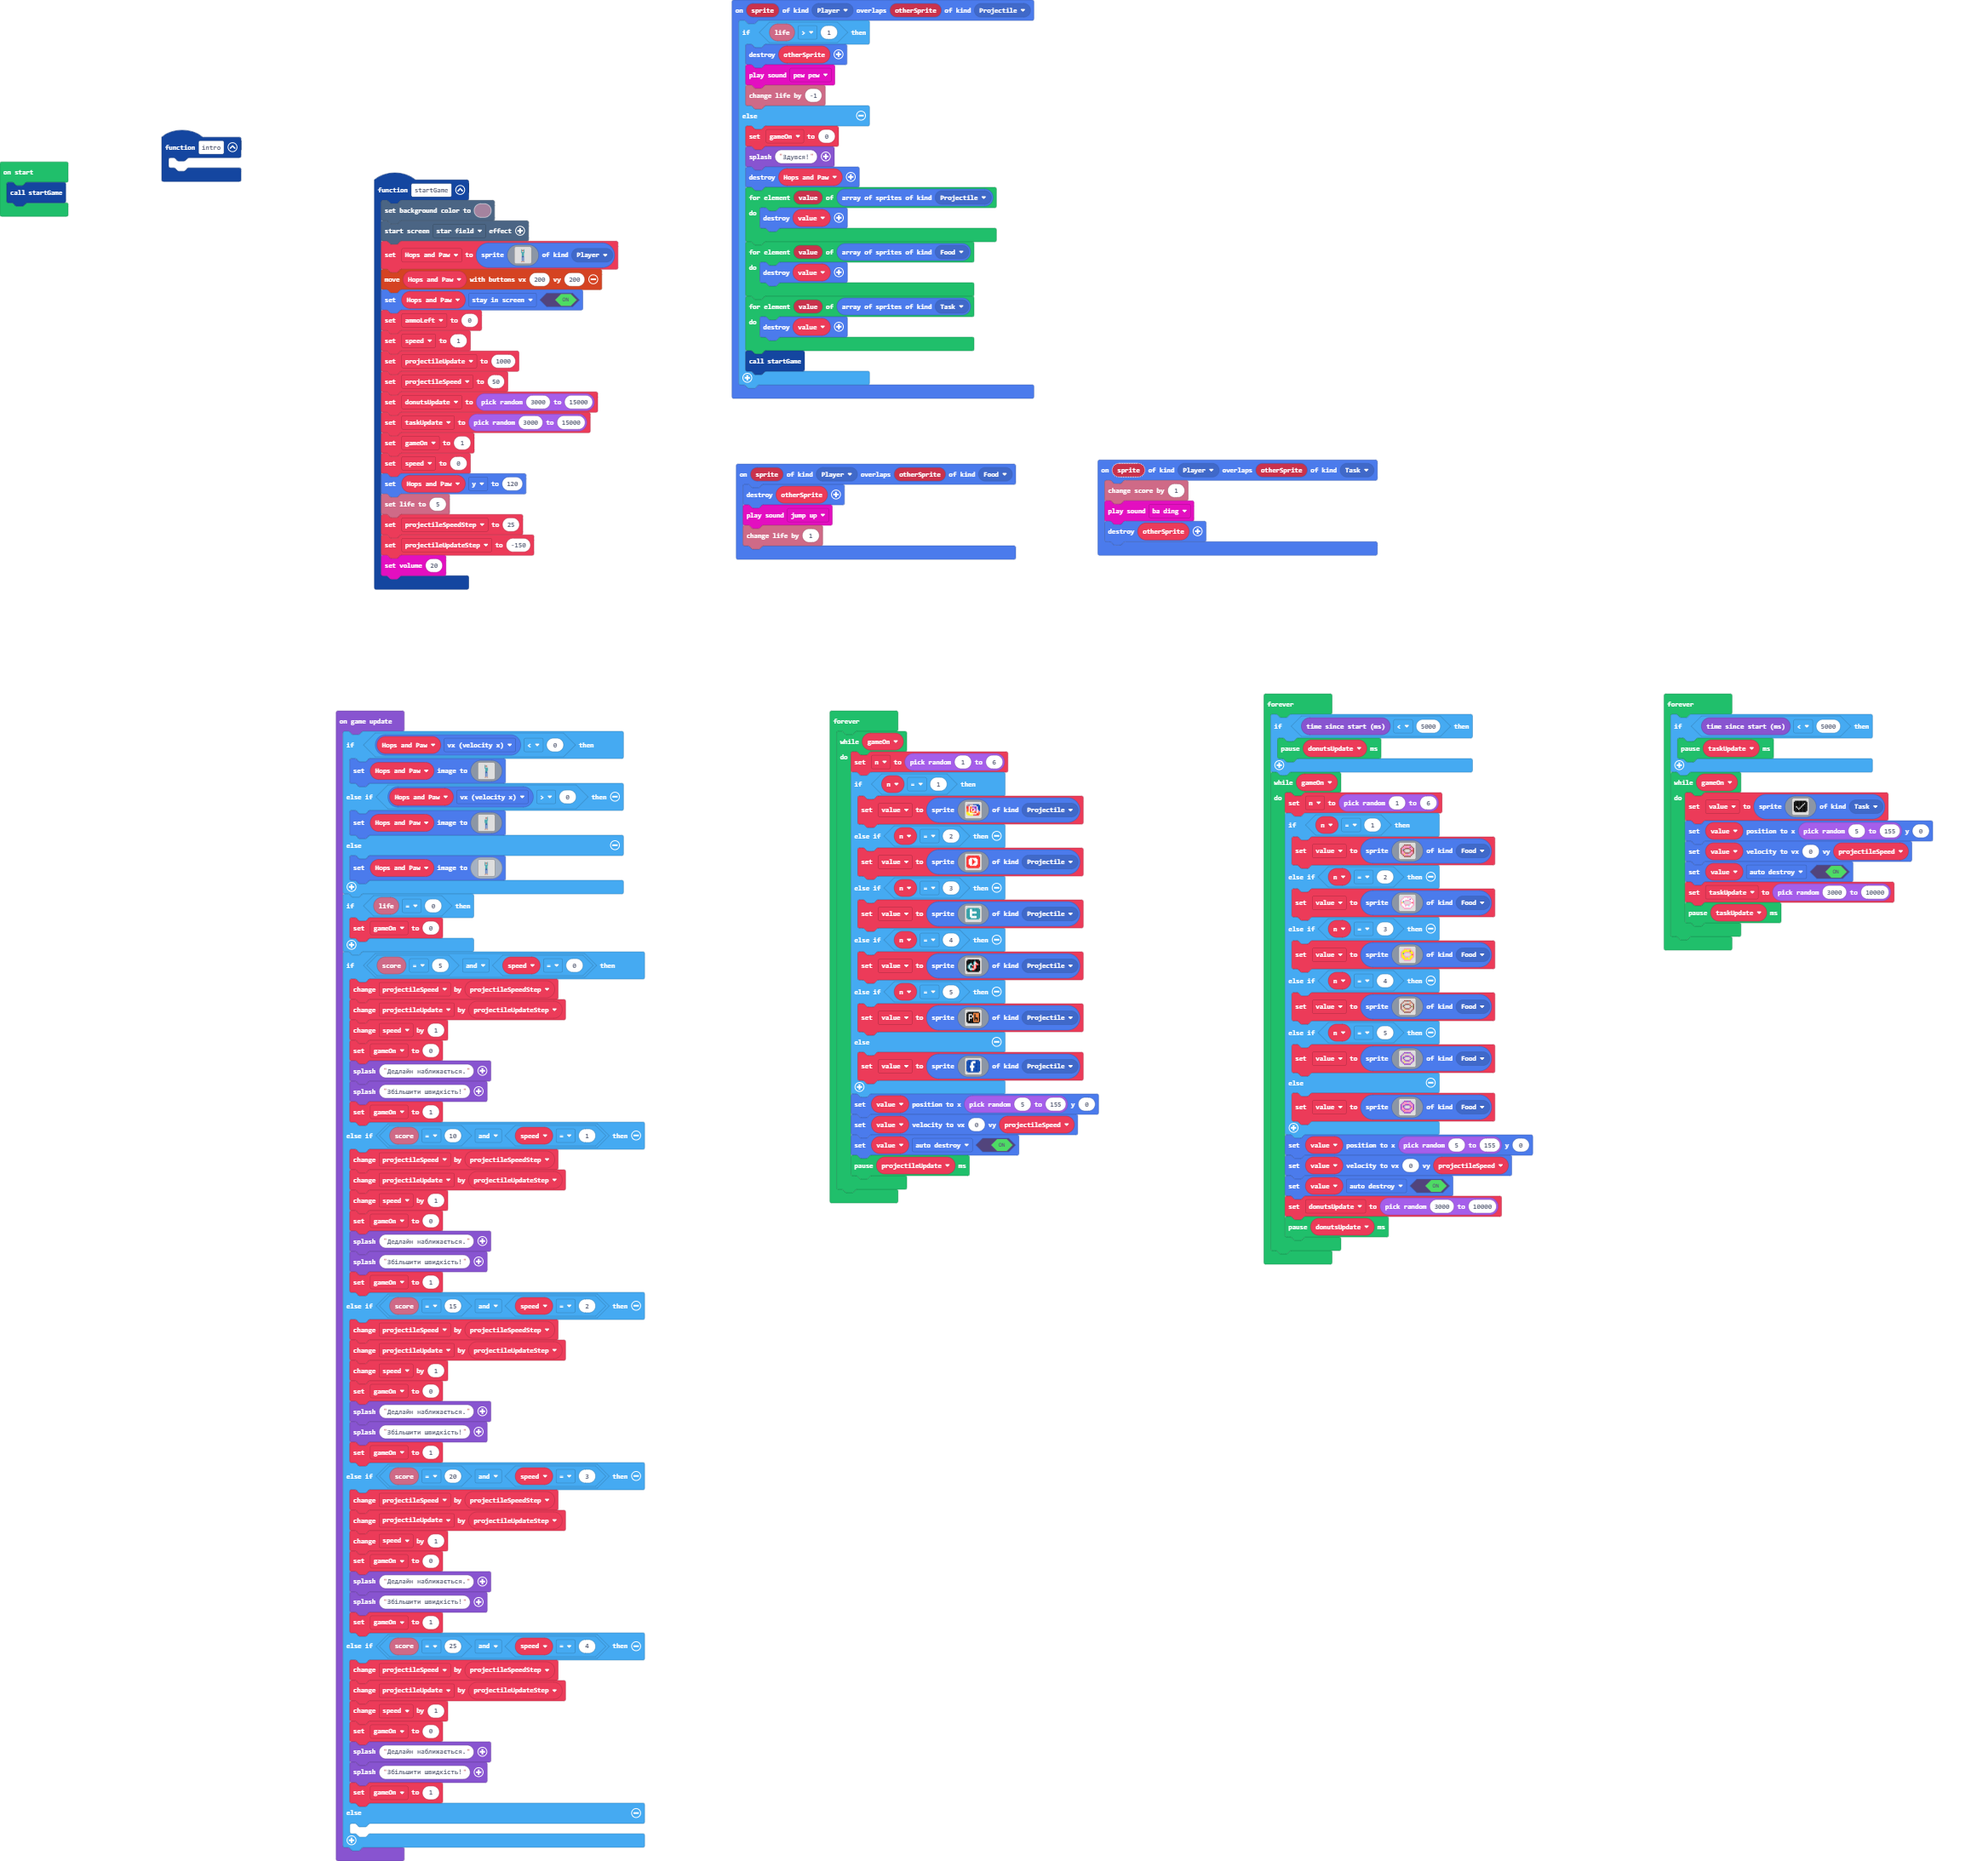
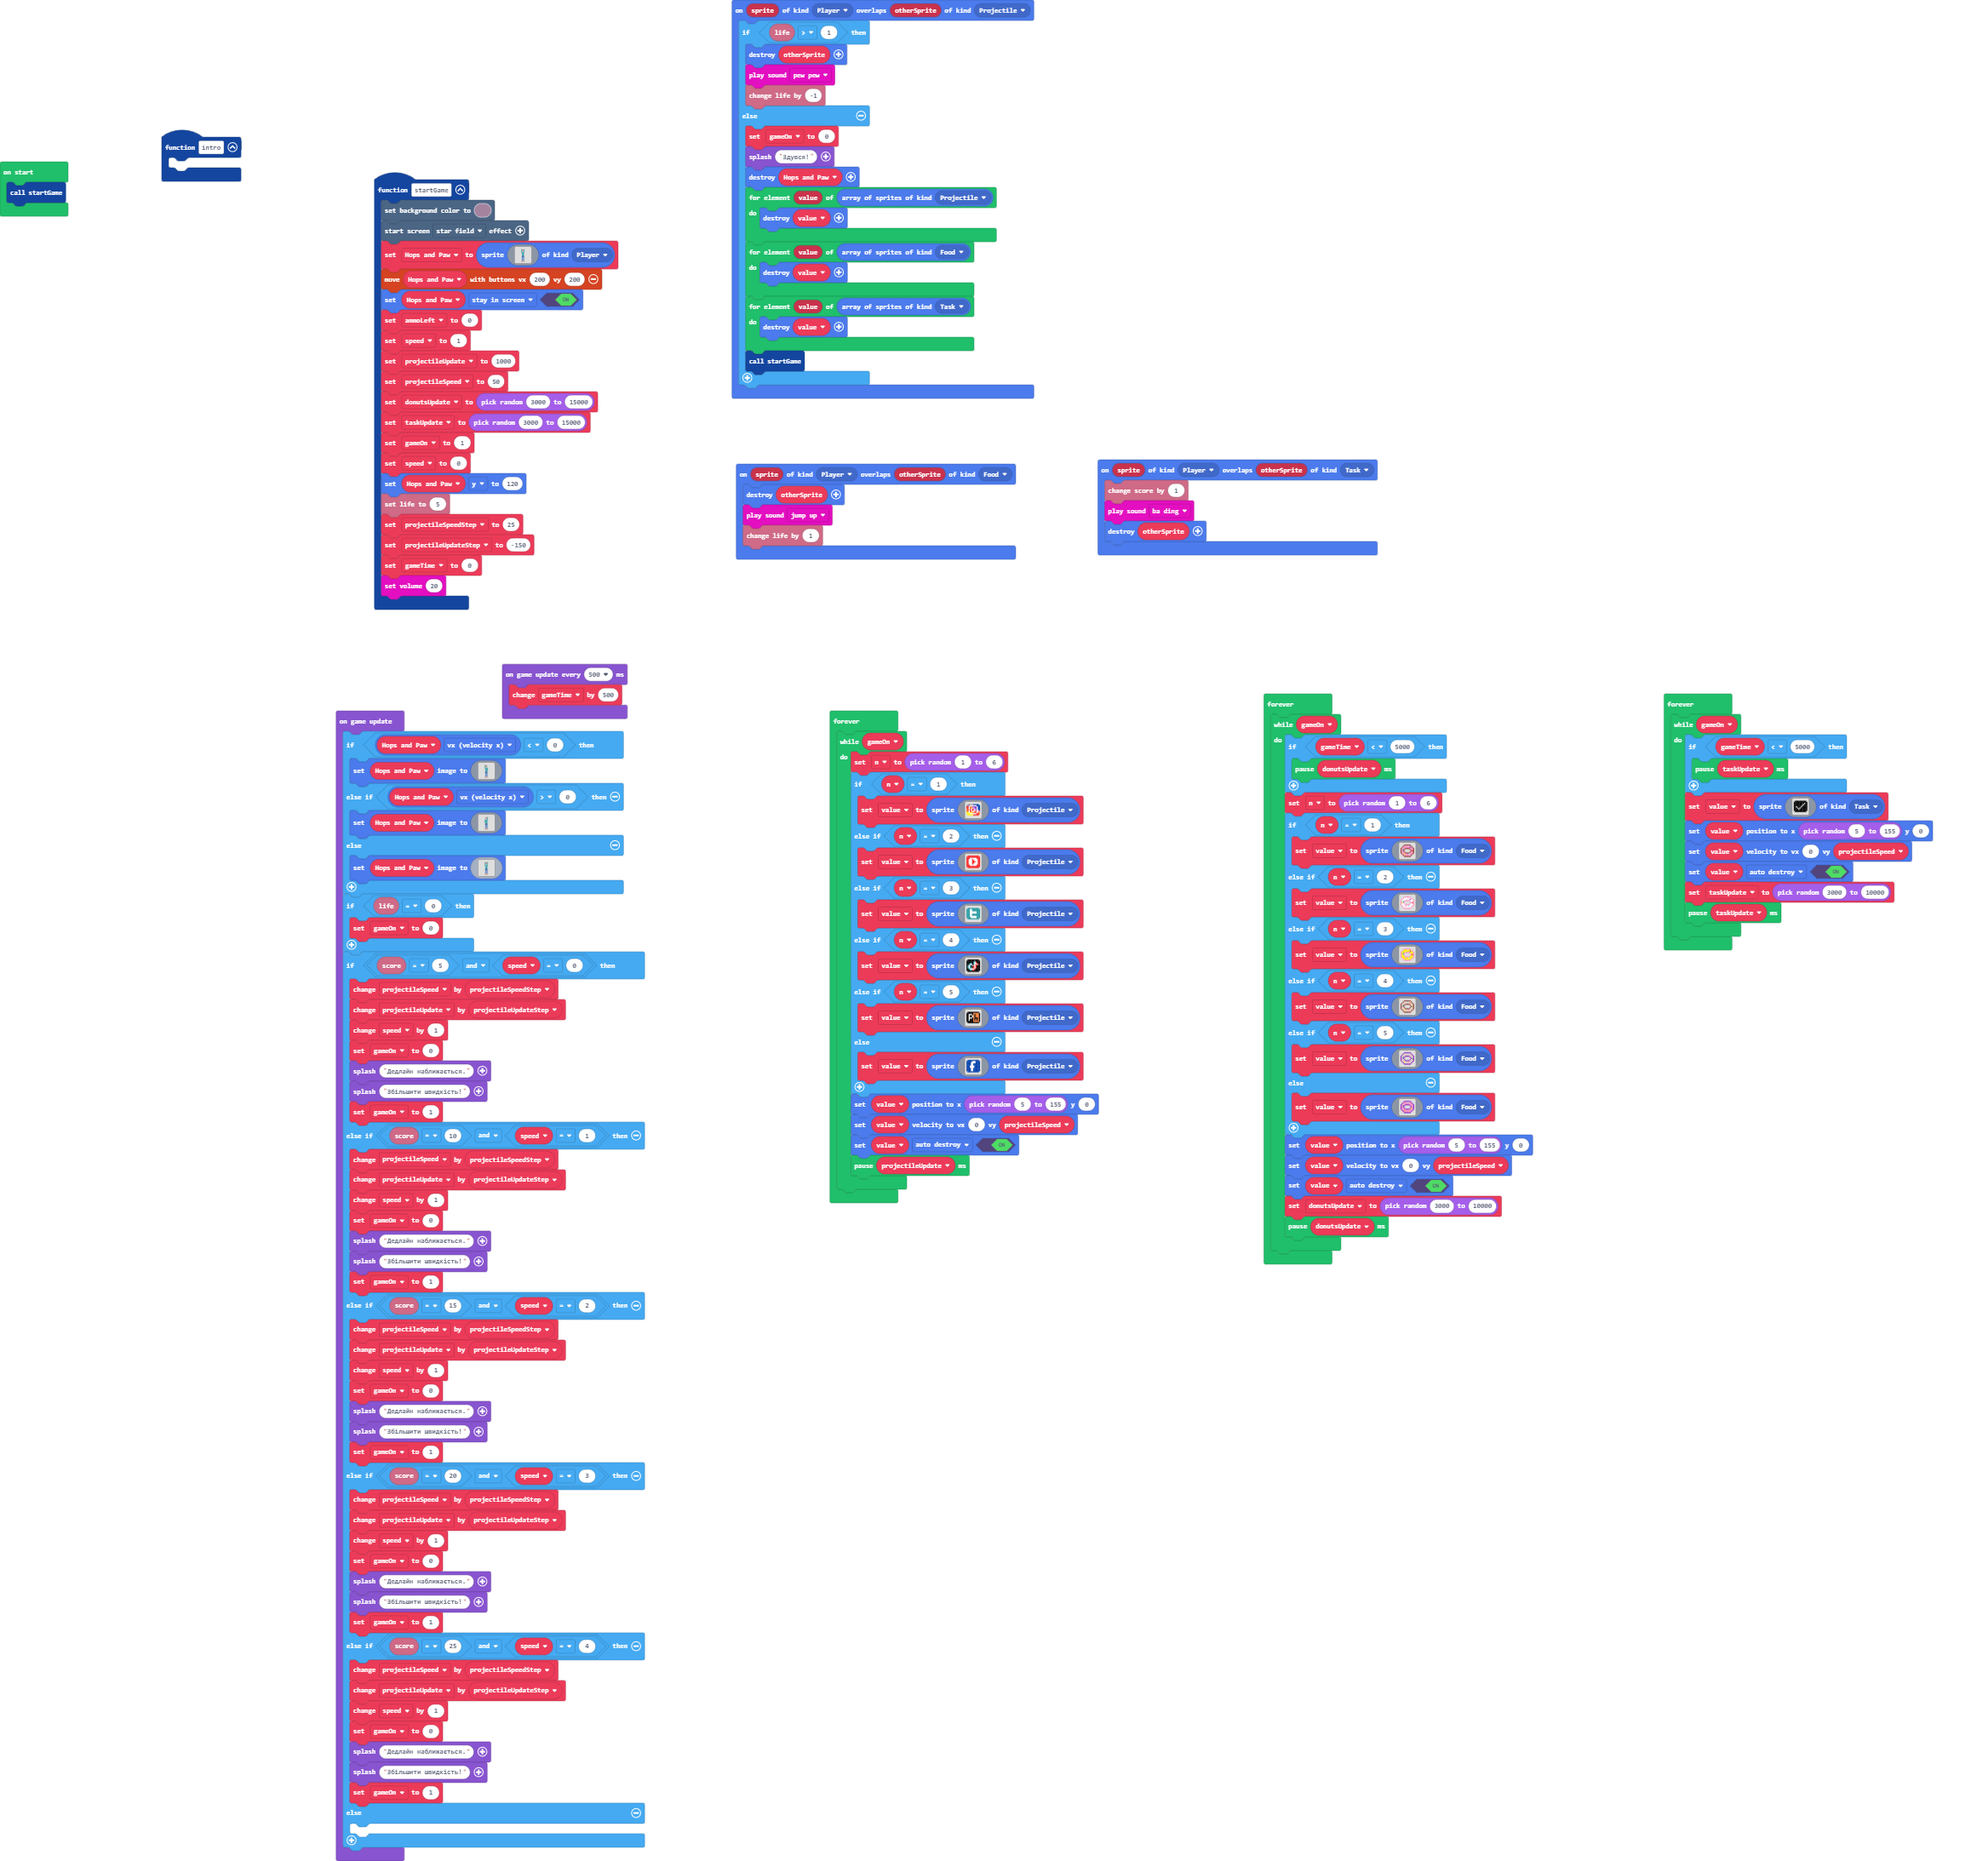
Update main.blocks, main.ts

diff --git a/main.ts b/main.ts
@@ -22,6 +22,7 @@ function startGame () {
     info.setLife(5)
     projectileSpeedStep = 25
     projectileUpdateStep = -150
+    gameTime = 0
     music.setVolume(20)
 }
 function intro () {
@@ -60,6 +61,7 @@ sprites.onOverlap(SpriteKind.Player, SpriteKind.Food, function (sprite, otherSpr
 })
 let value: Sprite = null
 let n = 0
+let gameTime = 0
 let projectileUpdateStep = 0
 let projectileSpeedStep = 0
 let gameOn = 0
@@ -149,10 +151,10 @@ forever(function () {
     }
 })
 forever(function () {
-    if (game.runtime() < 5000) {
-        pause(donutsUpdate)
-    }
     while (gameOn) {
+        if (gameTime < 5000) {
+            pause(donutsUpdate)
+        }
         n = randint(1, 6)
         if (n == 1) {
             value = sprites.create(assets.image`Donut 1`, SpriteKind.Food)
@@ -175,10 +177,10 @@ forever(function () {
     }
 })
 forever(function () {
-    if (game.runtime() < 5000) {
-        pause(taskUpdate)
-    }
     while (gameOn) {
+        if (gameTime < 5000) {
+            pause(taskUpdate)
+        }
         value = sprites.create(assets.image`Task`, SpriteKind.Task)
         value.setPosition(randint(5, 155), 0)
         value.setVelocity(0, projectileSpeed)
@@ -186,4 +188,7 @@ forever(function () {
         taskUpdate = randint(3000, 10000)
         pause(taskUpdate)
     }
+})
+game.onUpdateInterval(500, function () {
+    gameTime += 500
 })
